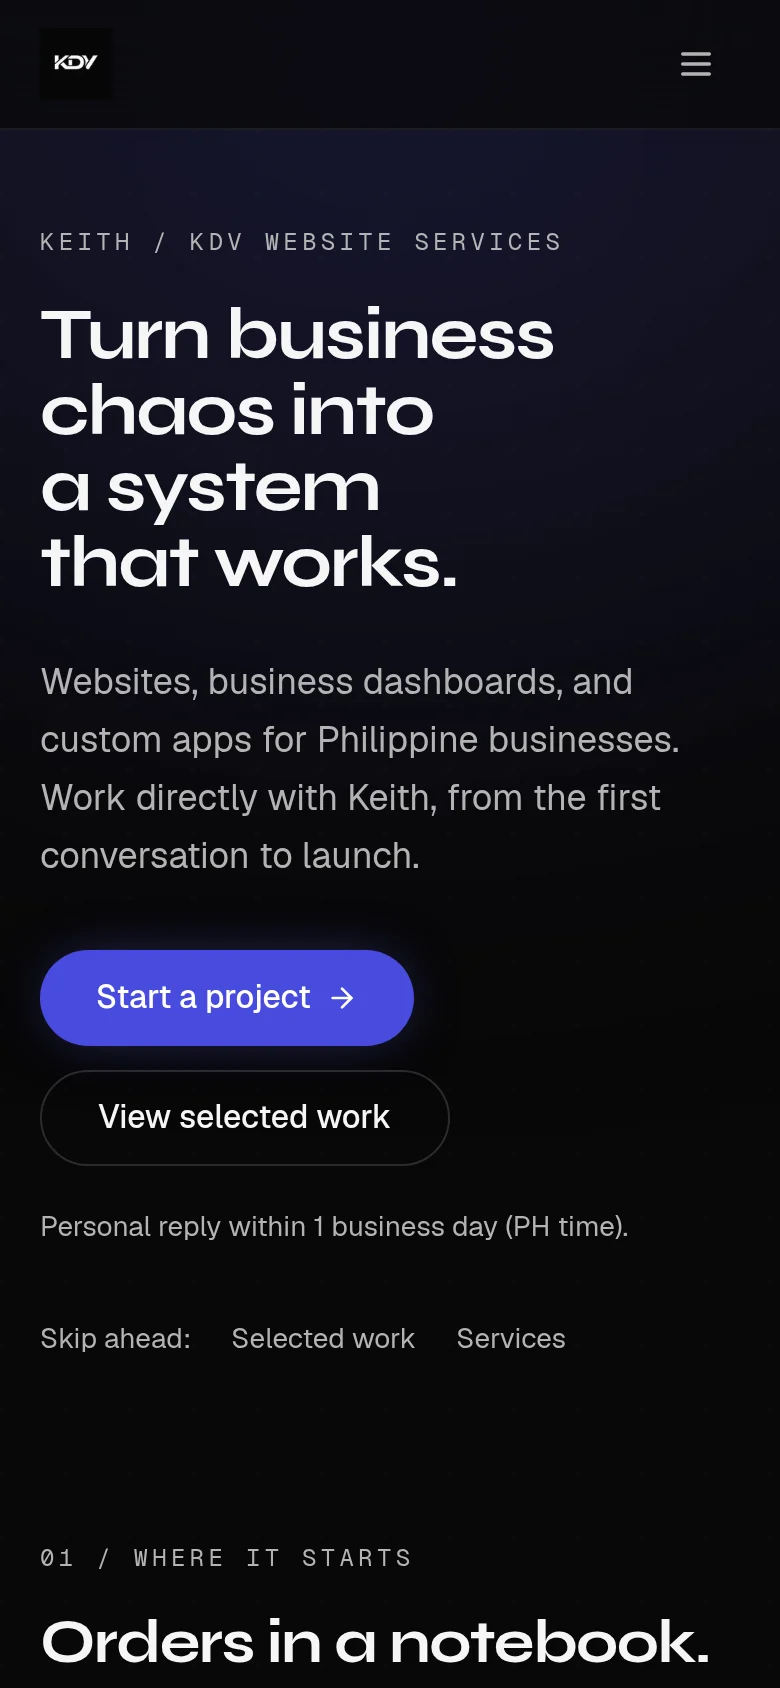
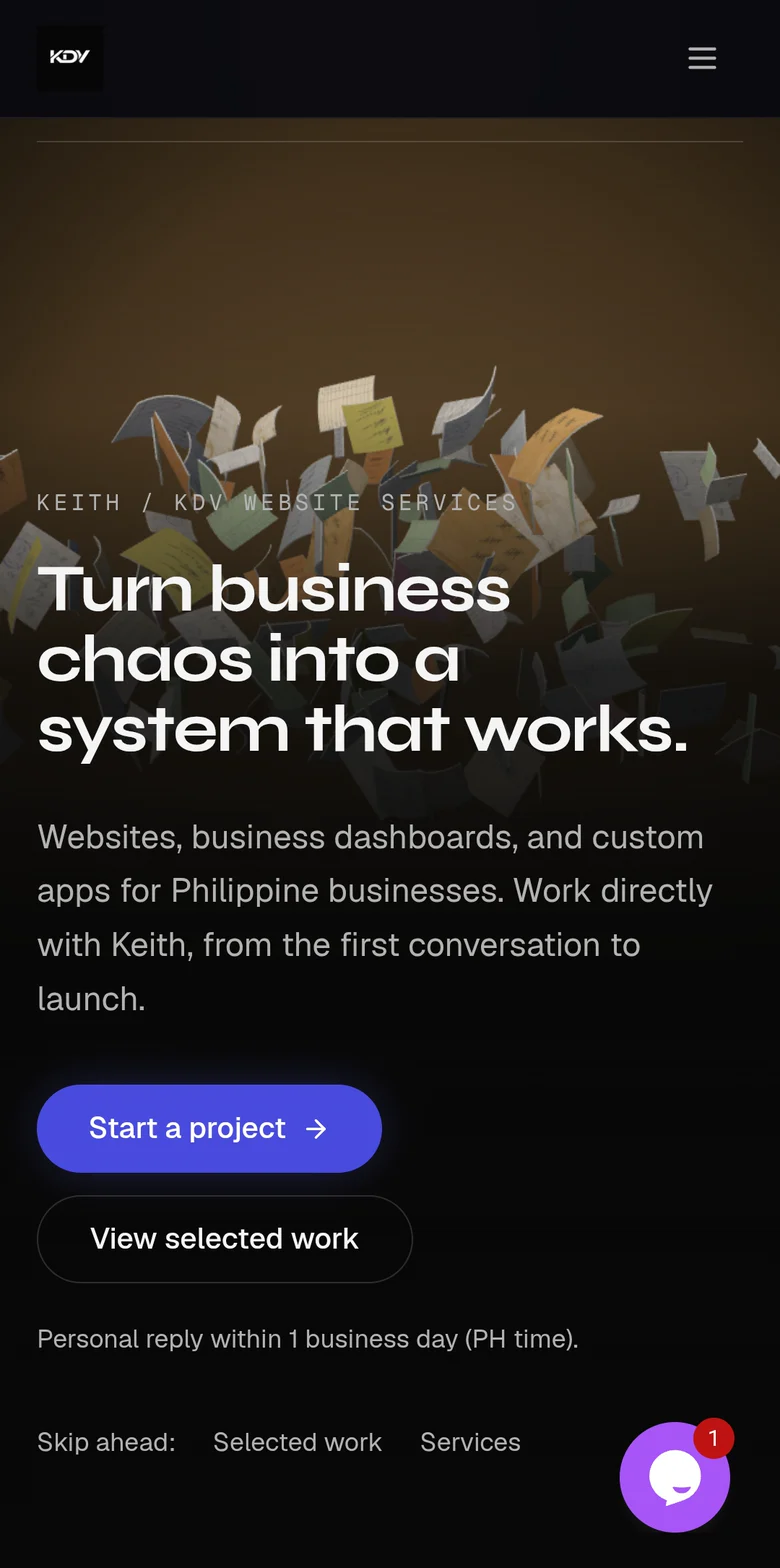
KDV case study: five real phone screenshots from the live site
Hero, Where it starts, Paper to system, The front door and The control
room, captured on an Android phone, with the status and gesture bars
cropped off (780 × 1568 WebP). The new hero replaces the earlier local
render; the navigation shot stays. Adds a capture note and logs the
provenance.

Claude-Session: https://claude.ai/code/session_011adMqG5nVUNyASPKDGKXdn

diff --git a/lib/data.ts b/lib/data.ts
@@ -251,9 +251,14 @@ export const resumeData = {
       stage: "Live website",
       link: "https://kdvwebsiteservices.com/",
       source: "https://github.com/icodeninjaX/KDV-Website-Services",
+      mobileNote: "Captured on an Android phone from the live site at kdvwebsiteservices.com. Client dashboards appear blurred, as they do on the site itself.",
       mobileImages: [
-        {"src": "/images/kdv-mobile-home.webp", "width": 780, "height": 1688, "label": "Homepage · phone", "alt": "KDV Website Services phone homepage with a collapsed menu and stacked inquiry links.", "caption": "The public homepage, rendered locally from the saved KDV source with reduced motion."},
+        { src: "/images/kdv-mobile-home.webp", width: 780, height: 1568, label: "Homepage · phone", alt: "KDV Website Services homepage on a phone: papers flying above the headline Turn business chaos into a system that works, with Start a project and View selected work buttons.", caption: "The hero. Scattered paperwork flies above the promise, Turn business chaos into a system that works, with one clear call to start a project." },
         {"src": "/images/kdv-mobile-menu.webp", "width": 780, "height": 1688, "label": "Navigation · phone", "alt": "KDV Website Services expanded mobile navigation with links to services, work and contact.", "caption": "The homepage menu opened at phone width, showing the responsive navigation."},
+        { src: "/images/kdv-mobile-problem.webp", width: 780, height: 1568, label: "Where it starts · phone", alt: "A grid of notebook pages and sticky notes snapping into order above the line Orders in a notebook. Payments in chat. A spreadsheet per branch.", caption: "Where it starts. As you scroll, the flying papers settle into a grid while the copy names the problem: orders in a notebook, payments in chat, a spreadsheet per branch." },
+        { src: "/images/kdv-mobile-new-zion.webp", width: 780, height: 1568, label: "Paper to system · phone", alt: "The New Zion admin dashboard shown as proof under the heading New Zion ran on paper logs. Now its branches share one queue.", caption: "Paper to system. Real client work as proof: New Zion's branches moved from paper logs to one order queue, with the dashboard shown and its data blurred." },
+        { src: "/images/kdv-mobile-websites.webp", width: 780, height: 1568, label: "Website creation · phone", alt: "The iPay International marketing site shown under the service heading The front door, with a starting price of 25,000 pesos and a 2 to 3 week timeline.", caption: "Website creation, The front door. Each service shows a real build (here iPay International), a starting price and a timeline, with links to the case study." },
+        { src: "/images/kdv-mobile-dashboards.webp", width: 780, height: 1568, label: "Business dashboards · phone", alt: "The 371admin operations dashboard shown under the service heading The control room, with a starting price of 85,000 pesos and a 3 to 6 week timeline.", caption: "Business dashboards, The control room. Sales, orders and devices at a glance, shown with the 371admin operations dashboard, blurred, from X-META." },
       ],
       images: [
         { src: "/images/kdv-website-services-home.webp", width: 1440, height: 820, label: "Public homepage", caption: "The live KDV Website Services homepage, captured with reduced motion enabled on 2026-10-01." },

diff --git a/docs/mobile-screenshots.md b/docs/mobile-screenshots.md
@@ -95,3 +95,7 @@ Supplied by the owner from the ATLAS desktop app, signed in to their own account
 Supplied by the owner from the live site, signed in to their own account: two landing-story chapters, Today, Plants and Calendar. All cropped to a common 1888 × 918 frame (dropping the browser's link tooltip at the bottom-left of Today) and resized to 1440 × 700 WebP (quality 86) as `plantpal-desktop-{water,grown,today,plants,calendar}.webp`. **Redaction:** the account email under the user's name in the sidebar is blurred on Today, Plants and Calendar.
 
 Added the same day: Library (signed in), Activity and Gardens as `plantpal-desktop-{library,activity,gardens}.webp`, same crop and size. **Redaction:** the sidebar email on all three; on Gardens, both garden locations and the second garden's name.
+
+## KDV Website Services phone screenshots (2026-10-06)
+
+Supplied by the owner from an Android phone on the live site: the hero, "Where it starts", "Paper to system" (New Zion), "The front door" (website creation, iPay International) and "The control room" (business dashboards, 371admin). Cropped to remove the phone's status bar (top 116 px) and gesture bar, then resized from 1080 px to 780 × 1568 WebP (quality 86) as `kdv-mobile-{home,problem,new-zion,websites,dashboards}.webp`; `kdv-mobile-home.webp` replaces the earlier local render. The earlier `kdv-mobile-menu.webp` is kept. No extra redaction: client dashboards are already blurred on the site itself. The site's chat button is visible in the corner.
